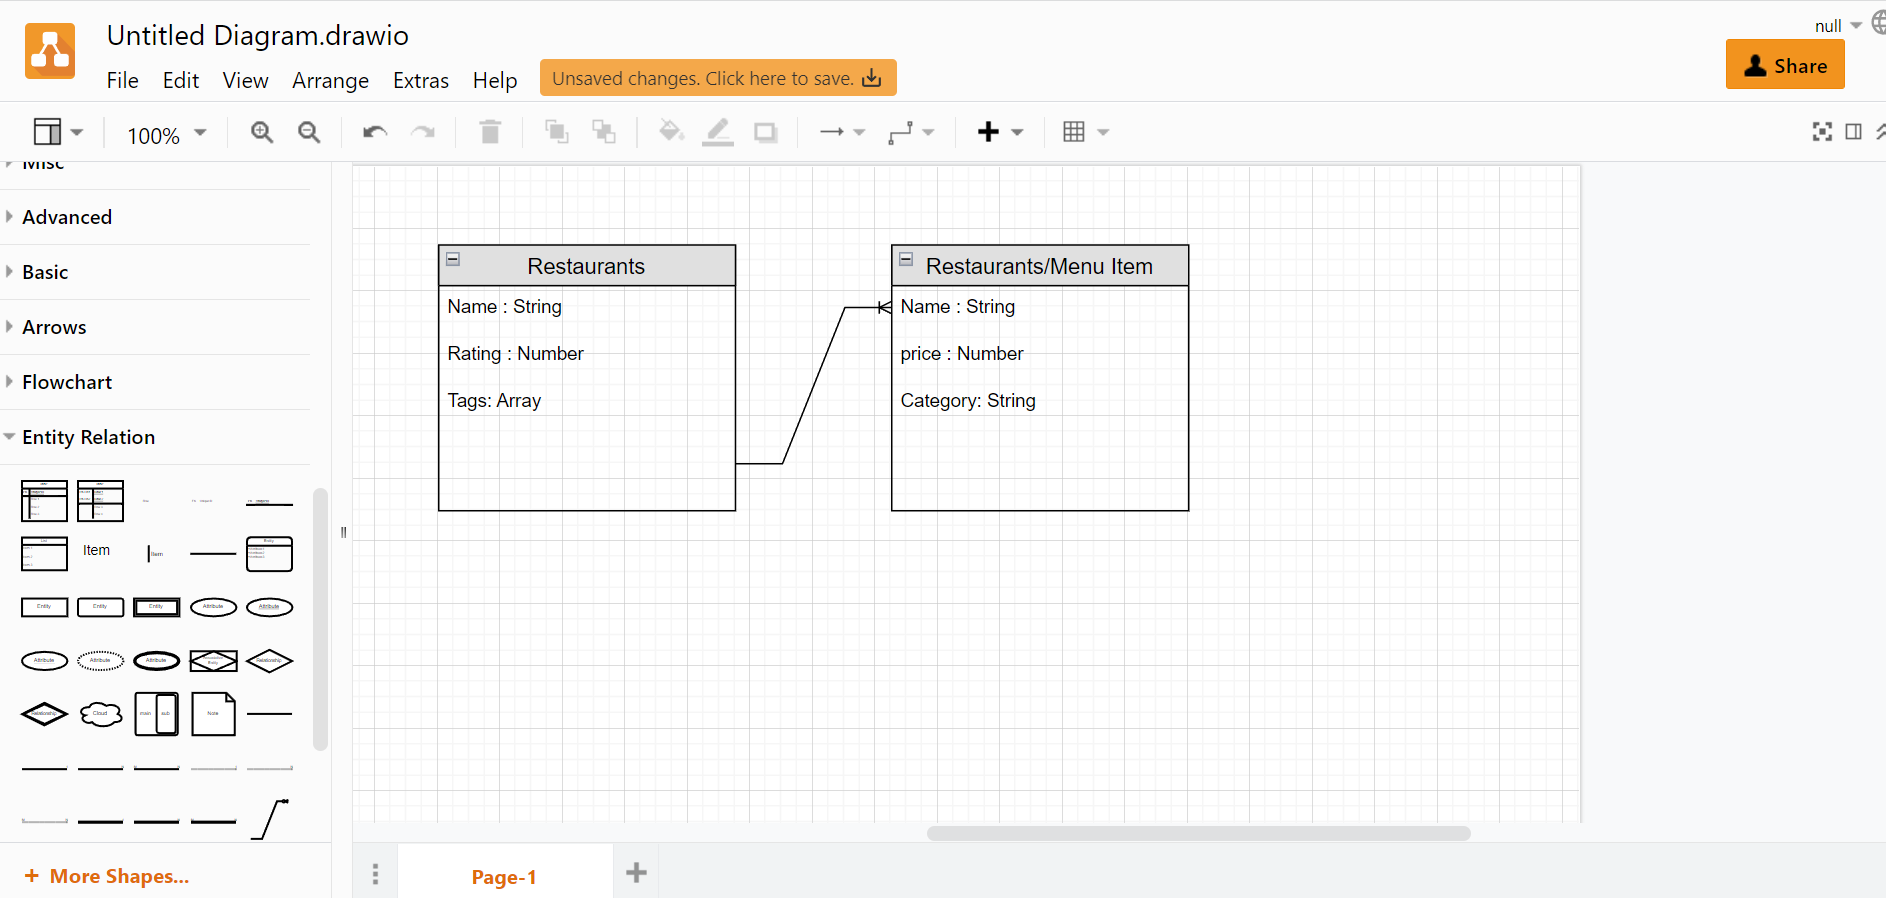
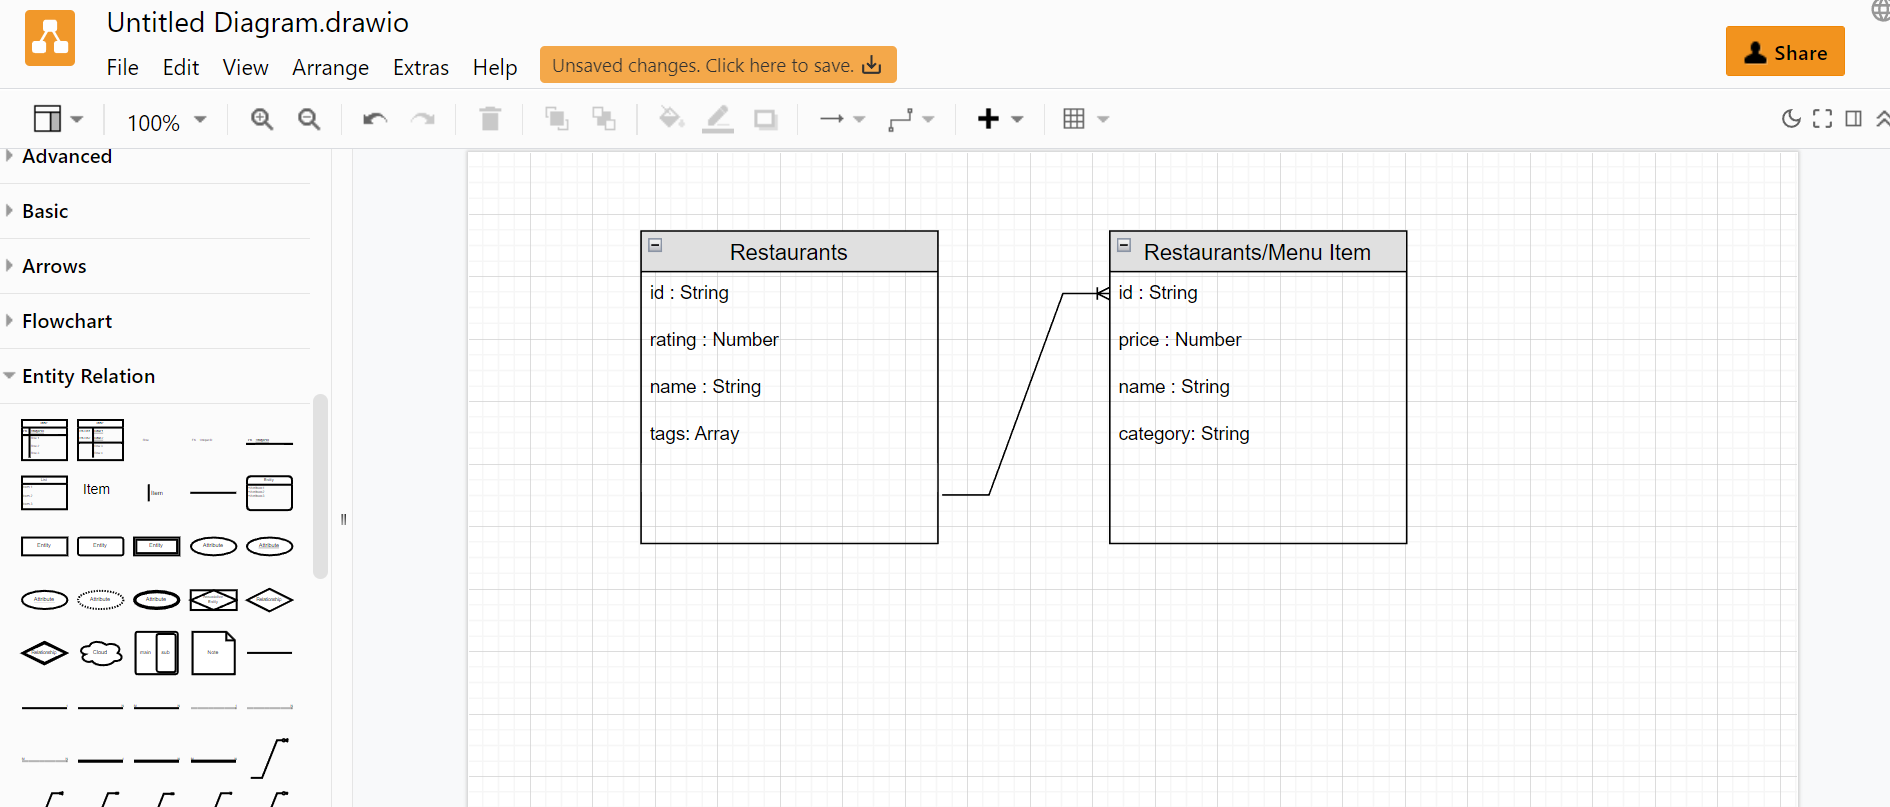
clean up and add to practice it

diff --git a/ebook-folder/docs/module-3/dataOrganization.md b/ebook-folder/docs/module-3/dataOrganization.md
@@ -12,14 +12,15 @@ Data modeling is the process of creating a model that represents the relationshi
 
 One of the most common ways to do this is through the use of an **ERD** (Entity Relationship Diagram).
 
-You may be thinking to yourself, "Greaaat...but why would I do this?" Here's a couple reasons why to use a data model. Using data models are much easier than changing your real database. It's a lot easier to build a data map than writing SQL queries to change your database. Being able to quickly change, and see the changes in a data model will help keep your new database from becoming disorganized, or incorrect. When creating a database it's easier for you to review a data model than review a a database design. In most cases it is harder to describe a database to your someone than simply showing them a model that represents the database. These data models help improve organization and communication within your team.
+You may be thinking to yourself, "Greaaat...but why would I do this?" Here's a couple reasons why to use a data model. Using data models are much easier than changing your real database. Planning ahead will help keep your new database from becoming disorganized, or incorrect. When creating a database it's easier for you to review a data model than review a a database design. In most cases it is harder to describe a database to your someone than simply showing them a model that represents the database. These data models help improve organization and communication within your team.
 
 ## The Setup
 
 We are going to go through the process of creating a data model for a **Restaurant Ordering App**. 
 
 - [ ] First you need to go to [Draw.io](https://www.draw.io/) for out **ERD** (Entity Relationship Diagram). 
-- [ ] Find the elements you need under the "Entity Relation" tab on the left toolbar.
+- [ ] Select Where you want to save it. Many options from github repository to your local hard drive, or any of the others.    Select decide later if you just want to dive right in. 
+- [ ] On the left hand side scroll the menu down to Find the "Entity Relation" tab.
 <!-- INSERT IMAGE OF DRAW ENTITY RELATION -->
 
 ## The process
@@ -31,29 +32,34 @@ We will think about our data step by step. The First functionality we want is fo
 Entity Relationship Diagrams are written in **[UML Notation](https://www.tutorialspoint.com/uml/uml_basic_notations.htm)** to visualize the relationships between tables. **UML** stands for **Unified Modeling Language** and it is basically the go-to for designing object-oriented systems.
 
 - [ ] Follow Along and do the same as the image below and Model the data for our "restaurant" collection  [Draw.io](https://www.draw.io/) for our **ERD** (Entity Relationship Diagram). 
-
+- [ ] Select the icon labeled "list" under "Entity Relation". We will represent a "restaurant" collection with several fields a user would expect when searching for a restaurant with their appropriate data types that will correspond with the FireStore database.
 ![er-diagram-InitialERDSETUP](./../images/InitialERDSETUPWithRestaurant.png)
 
 
 
 
 <!-- INSERT IMAGE OF DRAW ENTITY RELATION -->
+
 - [ ] Now think about this from the user's perspective. You only want to send the data that is immediately relevant. Sending extra data can be slow and costly. What data is unneeded for the initial search and would take up to much space? Look at the data in the picture that you put in your **ER diagram**. Which one of the 4 (Name,Rating,Tags,Menu) should be separated out from the search?
 <details><summary>Reason for Separation</summary>
 Receiving the menu data at this point is unneeded since we want the user to click on a button for then menu and at that point we could query the menu items from the database.
 </details>
 
-### Put Data in a sub collection
+### Put Data in a Sub Collection
 
-It is not always the right way there are pros and const but in general each potential separate user action with our data should be in its own collection. So Searching for restaurants and pressing a button to look at the menu are two separate actions and putting the data in different collections makes the most sense for this use case.
+It is not always the right way there are pros and cons but in general each potential separate user action with our data should be in its own collection. So Searching for restaurants and pressing a button to look at the menu are two separate actions and putting the "menu item" data in a sub collection collections of "restaurant" makes the most sense for this use case. 
+
+When a user clicks the button on the chosen restaurant we can easily return just the restaurant's corresponding menu items since we already have the reference and id to the document in "restaurant" collection. This saves us from having to return every menu item from every restaurant returned from a search result.
 
 
 ![er-diagram-example](./../images/biggerVsSubCollection.png)
 
-Here is how we would model it in our ER Diagram. Follow along and make your diagram look the same. Notice We have the label "Restaurants/Menu item" This shows Menu Item is a sub collection of Restaurants. Notice that there are several relationship lines to pick (**One-to-One**, **One-to-Many** ect..). Zoom in on the picture with the browser on the if unable to see.
+Here is how we would model it in our ER Diagram. Follow along and make your diagram look the same. Notice We have the label "Restaurants/Menu item" This shows Menu Item is a sub collection of Restaurants. Notice that there are several relationship lines to pick (**One-to-One**, **One-to-Many** ect..). Zoom in on the picture with your browser ++ctrl++ ++plus++  if unable to see.
 
 
 ![er-diagram-exampleInitialSetup](./../images/ERDOneToManyCollectionsRestaurantsToMenu.png)
+
+Also, notice the added id field. Remember each document put in the collection will have a corresponding id that can be setup to be added automatically when FireStore adds a new document. In addition, it is important to note that The id field in FIreStore is also a string.
 
 ### Cardinality
 
@@ -74,9 +80,11 @@ The lines correspond with **cardinality**. Cardinality refers to the type of rel
 
 ![cardinality-notation-table](./../images/cardinality-notation-table.png)
 
-When a user orders they are going to pick one restaurant to order from on a per transaction basis. So add a user to the data. The user has a **One-to-One** relationship with a restaurant. Bellow Under "User" collection the Contact data is The **map data** type. It is found in FireStore and is what we would call an object in javaScript. And we would expect to find a object with `{state, city, address}` ect...
+When a user orders they are going to pick one restaurant to order from on a per transaction basis. So add a user to the data. The user has a **One-to-One** relationship with a restaurant. Bellow Under "User" collection the Contact data is The **map data** type. It is found in FireStore and is what we would call an object in javaScript. And we would expect to find a object with `{state, city, address}` ect... You will find it under the "UML" menu tab labeled "object"
 
 ![er-diagram-example](./../images/ERDOneToOneUsertoRestaurants.png)
+
+We have now molded our data based on our user interactions. Restaurants will be returned from a search query. When a user clicks a restaurants menu button the corresponding "menu item" sub-collection will be returned. When a user selects a restaurant to order from the restaurant's ID will correspond **One-to-One** with a user and be saved in the `restaurantId` field of the "User".
 
 
 ## Determining Our Data Model
@@ -85,21 +93,21 @@ Most of the information above assumes you already have a working database, or at
 
   > NOTE: data modeling is a broad subject. We will discuss only what's most important for us at this level.
 
-Let's now assume that we are starting completely from scratch. We do not have a database set up at this point but we know we are going to use MySQL. We will want to take the following actions:
+Let's now assume that we are starting completely from scratch. We do not have a database set up at this point but we know we are going to use **NoSQL**. We will want to take the following actions:
 
 1. **Understand the company's industry**
   We need to know what we are building. Having an understanding of our business model will help us determine what our entities will be.
 
 1. **Identify our entities**
-  What tables do we think we will need to create? If I am in the eCommerce space I will probably want a table called `customers`.
+  What collections do we think we will need to create? If I am in the eCommerce space I will probably want a collection called `customers`.
 
 1. **Identify our attributes**
   Now that we have our tables it's time to determine what fields should exist on those tables. Every "customer" should definitely have an `id`, but what else? We might want to know the customers' first and last names and probably some contact information.
 
 1. **Identify our relationships**
-  We have a "customers" table and because we know that customers will place orders, we've also gone ahead and created an "orders" table. Each table has its own set of attributes but how are they related? What's the cardinality? Well . . . if we assume that any customer can have multiple orders (that would make sense, right?) then we know that we have established a "one-to-many" relationship.
+  We have a "customers" table and because we know that customers will place orders, we've also gone ahead and created an "orders" collection. Each table has its own set of attributes but how are they related? What's the cardinality? Well . . . if we assume that any customer can have multiple orders (that would make sense, right?) then we know that we have established a "one-to-many" relationship.
 
-This is the thought process you will go through as you develop MySQL databases on your own. It may seem simple or it may seem complicated but data modeling is an important part of the development process and a good skill to have. Always begin by drawing it out on paper so you have a good visual understanding of your database's needs.
+This is the thought process you will go through as you develop **NoSQL** databases on your own. It may seem simple or it may seem complicated but data modeling is an important part of the development process and a good skill to have. Always begin by drawing it out on paper so you have a good visual understanding of your database's needs.
 
 ## Model a piece of data in code with Schema.
 
@@ -109,10 +117,10 @@ Schemas are objects that define the structure of the data. We use it in our code
 ```javascript
 // Models/schema.js
 class User {
-  constructor(name, transactionId,city,state,address) {
+  constructor(name, restaurantId,city,state,address) {
     this.name = name || "";//if name is null/undefined or does not 
                             //exist empty  string will be the default
-    this.transactionId = transactionId || 0; //our code expects number
+    this.restaurantId = restaurantId || "0"; 
     this.contact = getContact(city,state,address);
 
   // Default values if none are provided
@@ -143,7 +151,10 @@ await addDoc(userCollectionRef, userOne)
 
 ## Practice It
 
-You will practice by going back to your firebase assignments project and changing one of or more of the object literals `{}` you put in the database with a schema. Go to one of the Previous 1-4 day assignments and create a `Models/schema.js` folder and file create a class that follows your data from a collection and export the class. Then import and call that class and input the data like above and use that to put in the database instead of a object literal `{}`.
+Prompt 1: You will practice by going back to your firebase assignments project and changing one of or more of the object literals `{}` you put in the database with a schema. Go to one of the Previous 1-4 day assignments and create a `Models/schema.js` folder and file create a class that follows your data from a collection and export the class. Then import and call that class and input the data like above and use that to put in the database instead of a object literal `{}`.
+
+prompt 2: Right now in our Restaurant example we are only saving the `restaurantId` when a user picks a restaurant to order from. However we are not saving the chosen menu items. You have two choices: make another map object to save the item choices in the "User" collection or make a new "transaction" sub-collection of "User" to save all transaction data and chosen menu items. Do one of them and 
+explain/think about why you did one over the other.
 
 ## Additional Resources
 
